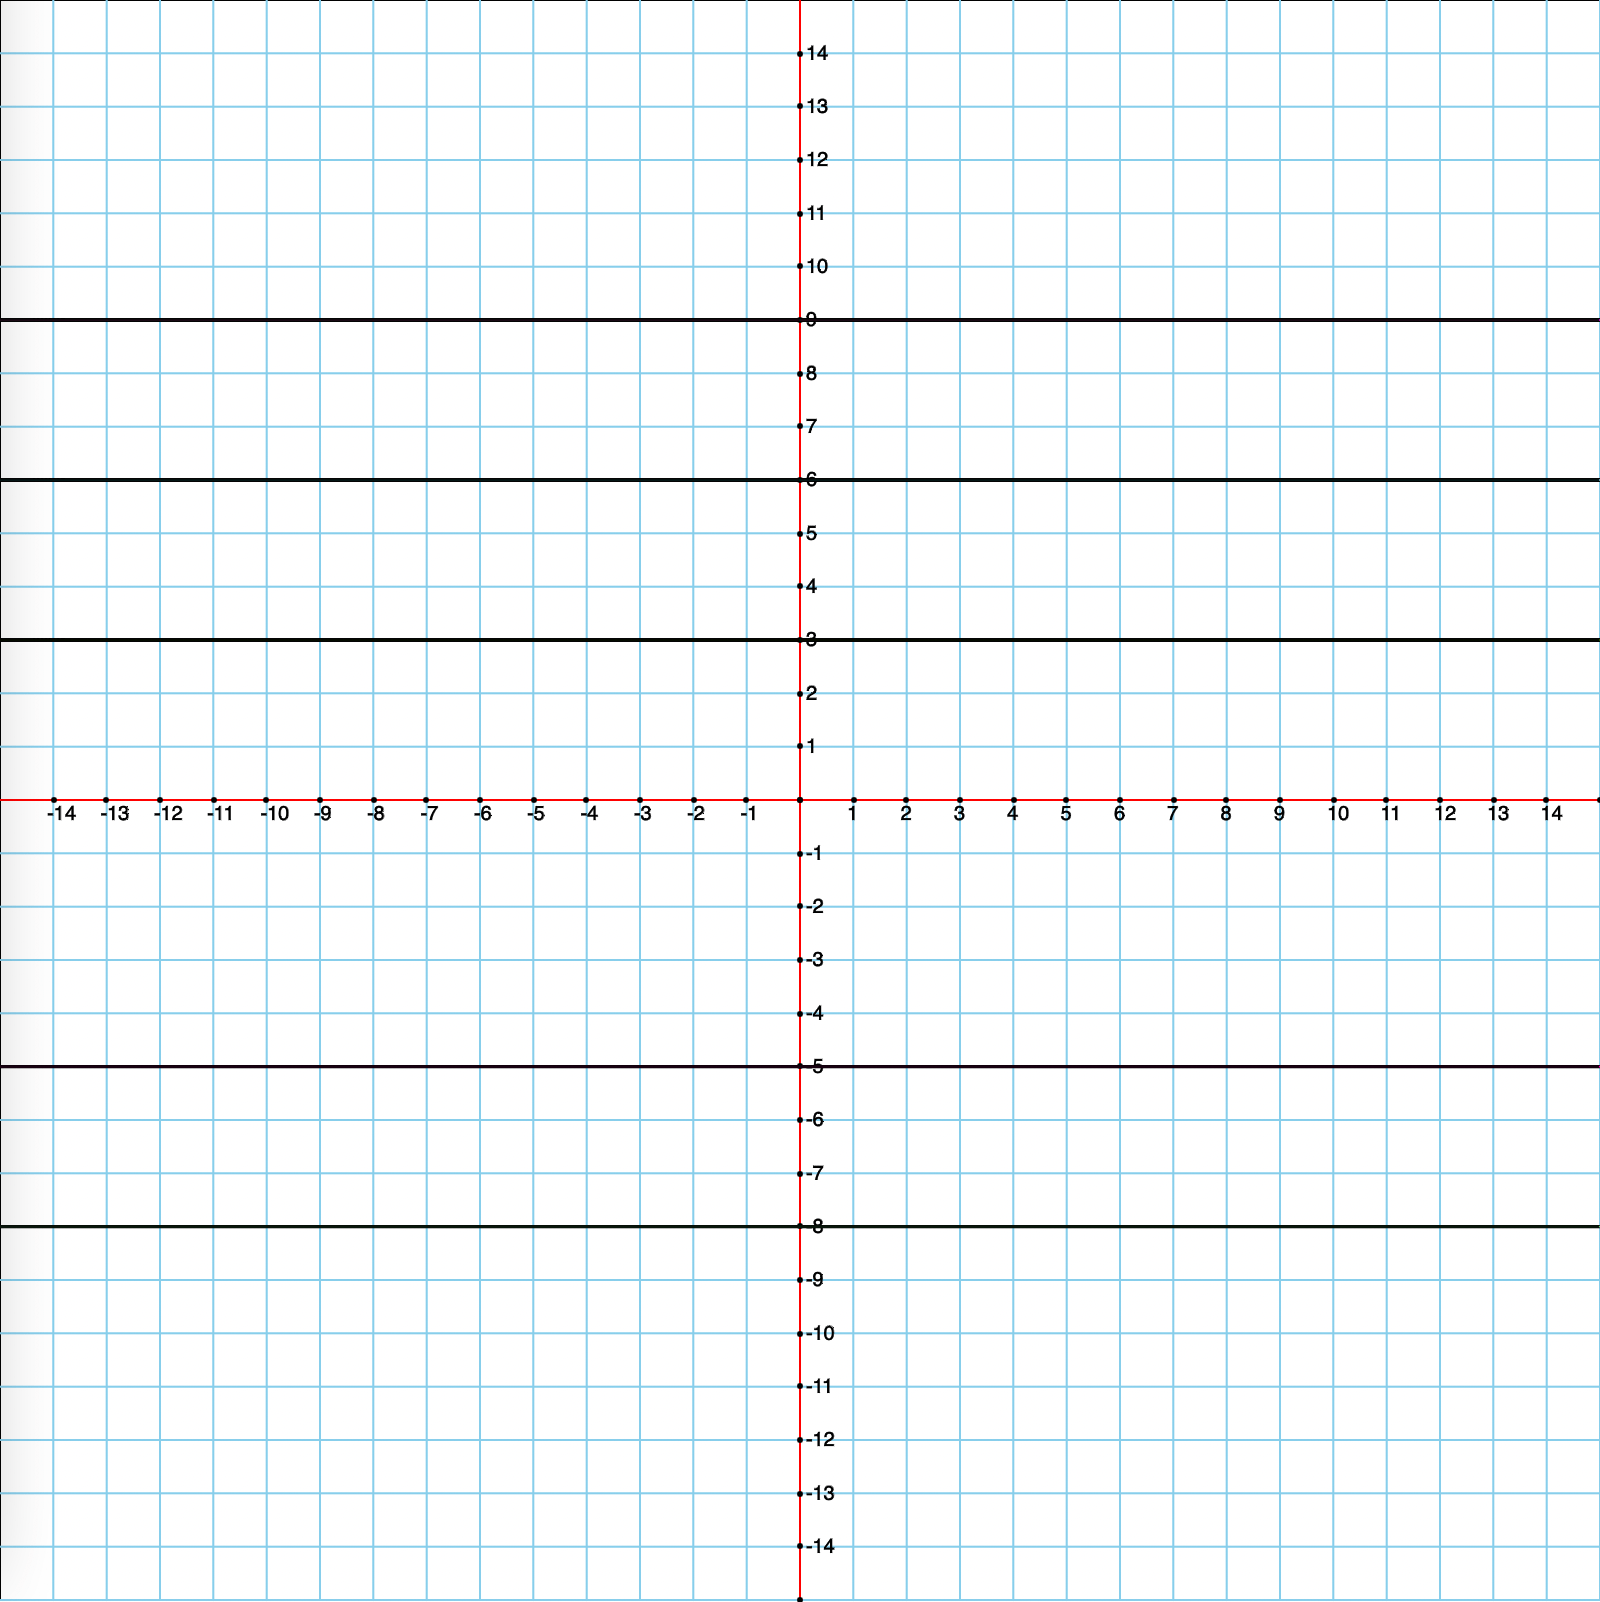
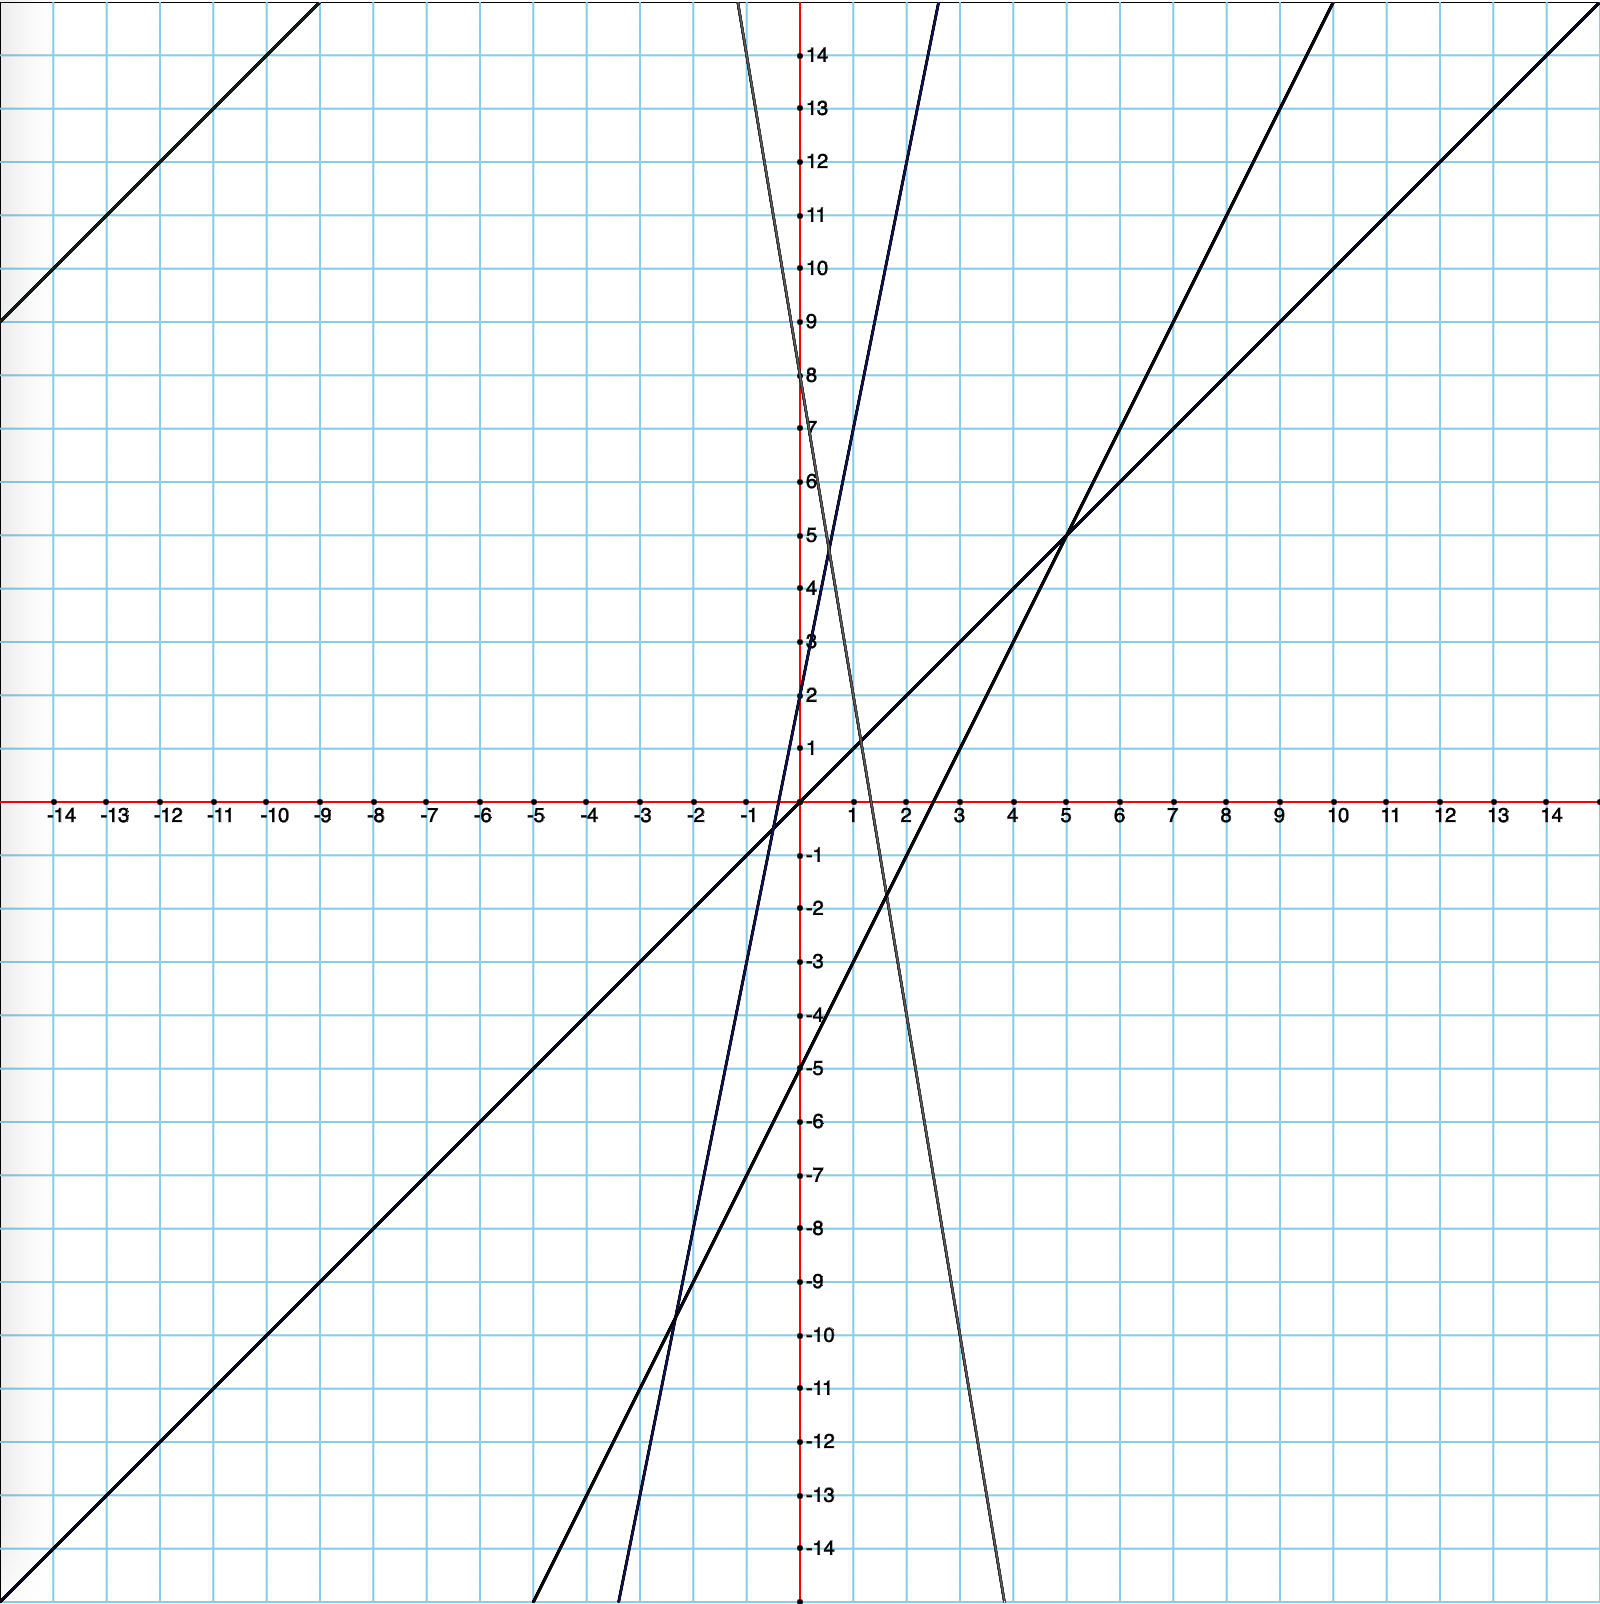
start creating the homework due June 25 file

diff --git a/2021-06-25/hw2021-06-25.html b/2021-06-25/hw2021-06-25.html
@@ -1,0 +1,346 @@
+<!DOCTYPE html>
+<html lang="en">
+<head>
+    <link
+        rel="stylesheet"
+        href="https://cdnjs.cloudflare.com/ajax/libs/prism/1.5.0/themes/prism.min.css"
+   />
+    <meta charset="UTF-8">
+    <meta http-equiv="X-UA-Compatible" content="IE=edge">
+    <meta name="viewport" content="width=device-width, initial-scale=1.0">
+    <title>hw2021-06-25</title>
+    <style>
+        @import url('https://fonts.googleapis.com/css2?family=Raleway&display=swap');
+        @import url('https://fonts.googleapis.com/css2?family=Roboto+Mono:wght@300&display=swap');
+        #title
+        {
+            font-family: 'Raleway', sans-serif;;
+            text-align: center;
+            color:rgb(0, 255, 13);
+        }
+        li.list
+        {
+            font-family: 'Raleway', sans-serif;;
+        }
+        p.assignment
+        {
+            font-family: 'Raleway', sans-serif;;
+        }
+        p.answer
+        {
+            font-family: 'Raleway', sans-serif;
+            text-decoration-line: underline;
+            color:rgb(8, 211, 35);
+        }
+        span.code
+        {
+            font-family: 'Roboto Mono', monospace;
+            font-size: 8;
+            background: rgb(196, 195, 195);
+            border-radius: 2pt;
+            color:rgb(24, 128, 24);
+        }
+    </style>
+    <body>
+        <script src="https://cdnjs.cloudflare.com/ajax/libs/prism/1.5.0/prism.min.js"></script>
+        <ol>
+            <h1 id="title">Homework due June 25</h1>
+            <li class="list">
+                <p class="assignment">
+                    Guess the function — see the attached <span class="code">graph</span>.  Hint:  try your guesses on your own graph so that they match up.
+                    <ol type="a">
+                        <li class="list">
+                            purple function
+                        </li>
+                        <li class="list">
+                            brown function
+                        </li>
+                        <li class="list">
+                            green function
+                        </li>
+                    </ol>
+                </p>
+                <p class="answer">answer</p>
+            </li>
+            <li class="list">
+                <p class="assignment">
+                    Individual work:
+                    <ol type="a">
+                        <li class="list">
+                            Cris:  
+                            show a screenshot of that weird function you showed in class on Sunday June 20.  
+                            The one that had <span class="code">Math.random</span> in it, and the graph was mostly above the x-axis but had just a couple points below it.  
+                            It had a few bumps in the third quadrant, then in the first quadrant it looked like it went up to positive infinity at three different places.  
+                            Please include the definition of the function in your screenshot.
+                        </li>
+                        <li class="list">
+                            Alex: 
+                            Give a code snippet from your Unity game and write an explanation of it.
+                        </li>
+                        <li class="list">
+                            Kenneth:  
+                            Prove the two difficult cases from the <span class="code">compare</span> function; 
+                            why does Cris beat Alex with probability = 2/3 and why does Alex beat Kenneth with probability = 2/3?
+                            <ol type="i">
+                                <li class="list">
+                                    <span class="code">4 4 4 4 0 0</span> — Kenneth
+                                </li>
+                                <li class="list">
+                                    <span class="code">3 3 3 3 3 3</span> — Kai
+                                </li>
+                                <li class="list">
+                                    <span class="code">2 2 2 2 6 6</span> — Cris
+                                </li>
+                                <li class="list">
+                                    <span class="code">1 1 1 5 5 5</span> — Alex
+                                </li>
+                            </ol>
+                        </li>
+                    </ol>
+                </p>
+                <p class="answer">answer</p>
+            </li>
+            <li class="list">
+                <p class="assignment">
+                    Goldbach’s conjecture is one of the oldest and best-known unsolved problems in number theory and all of mathematics. 
+                    It states that every even whole number greater than 2 is the sum of two prime numbers.
+                    <ol class="a">
+                        <li class="list">
+                            Prove it up to 10.  Easy:
+                            <ol class="i">
+                                <li class="list">
+                                    <span class="code">4 = 2 + 2</span>
+                                </li>
+                                <li class="list">
+                                    <span class="code">6 = 3 + 3</span>
+                                </li>
+                                <li class="list">
+                                    <span class="code">8 = 3 + 5</span>
+                                </li>
+                                <li class="list">
+                                    <span class="code">10 = 3 + 7</span>
+                                </li>
+                            </ol>
+                        </li>
+                        <li class="list">
+                            continue the above proof by hand up through the number 30.
+                        </li>
+                        <li class="list">
+                            Let’s suppose you wanted to prove this for even numbers up through 1000 … or up through <span class="code">n</span>?  
+                            Think about an algorithm that could accomplish this (hint, your algorithm could in turn rely on <span class="code">sieve</span>).  
+                            Write down a sentence or two describing how that algorithm would work.
+                        </li>
+                    </ol>
+                </p>
+                <p class="answer">answer</p>
+            </li>
+            <li class="list">
+                <p class="assignment">
+                    Let’s write a function called <span class="code">randomLife</span>.  
+                    Start with your <span class="code">graph</span> function in order to draw some graph paper, but omit the x-axis and the y-axis.  
+                    Also, we won’t be putting functions on there.  
+                    Instead, we will be looking at the squares of your graph, and we will refer to them as “cells”.  
+                    We are calling this function <span class="code">randomLife</span> because you will fill the cells with color black when they are alive; and when you draw your grid, 
+                    look at each cell, calculate <span class="code">Math.random()</span>, and if it’s less than 1/3, mark that cell as alive.  That’s it.  
+                    So every time you reload the page it should have a different random setup with approximately 1/3 of the cells alive.
+                </p>
+                <p class="answer">answer</p>
+            </li>
+            <li class="list">
+                <p class="assignment">
+                    Write <span class="code">solve(mathString)</span>.  
+                    This function will read <span class="code">mathString</span> and solve it.  
+                    For now, you can make a very strong simplifying assumption:  
+                    <span class="code">mathString</span> will always be of the form <span class="code">"x + y"</span> where <span class="code">x</span> and <span class="code">y</span> are positive integers.  
+                    Examples: <span class="code"> "17 + 23"</span>, <span class="code">"29999 + 314159"</span>.  
+                    Also, 
+                    let’s assume that <span class="code">x</span> and <span class="code">y</span> are both less than <span class="code">Math.MAX_SAFE_INTEGER / 2</span> so that we don’t have to worry about <span class="code">BigInt</span>.  
+                    In short, <span class="code">mathString</span> will always be:  number, space, plus, space, number.  
+                    Then perform that computation and return the result.
+                </p>
+                <p class="answer">answer</p>
+            </li>
+            <li class="list">
+                <p class="assignment">
+                    Easy <span class="code">console.log</span> work.  Write a sentence describing observations.
+                    <ol class="a">
+                        <li class="list">
+                            <span class="code">
+                                Math.E
+                            </span>
+                        </li>
+                        <li class="list">
+                            <span class="code">
+                                Math.E * Math.E
+                            </span>
+                        </li>
+                        <li class="list">
+                            <span class="code">
+                                Math.exp(2)
+                            </span>
+                        </li>
+                        <li class="list">
+                            <span class="code">
+                                Math.E * Math.E == Math.exp(2)
+                            </span>
+                        </li>
+                        <li class="list">
+                            <span class="code">
+                                Math.log2(10)
+                            </span>
+                        </li>
+                        <li class="list">
+                            <span class="code">
+                                Math.log(10)
+                            </span>
+                        </li>
+                        <li class="list">
+                            <span class="code">
+                                Math.log10(10)
+                            </span>
+                        </li>
+                        <li class="list">
+                            <span class="code">
+                                googol = 10**100
+                            </span>
+                        </li>
+                        <li class="list">
+                            <span class="code">
+                                Math.log2(googol)
+                            </span>
+                        </li>
+                        <li class="list">
+                            <span class="code">
+                                Math.log(googol)
+                            </span>
+                        </li>
+                        <li class="list">
+                            <span class="code">
+                                Math.log10(googol)
+                            </span>
+                        </li>
+                        <li class="list">
+                            <span class="code">
+                                Math.log13(googol)
+                            </span>
+                        </li>
+                    </ol>
+                </p>
+                <p class="answer">answer</p>
+            </li>
+            <li class="list">
+                <p class="assignment">
+                    More console work.  
+                    Explain what’s going on here.  
+                    What’s the <span class="code">b</span> and what’s the <span class="code">^</span> 
+                    <ol type="a">
+                        <li class="list">
+                            <span class="code">
+                                0b0
+                            </span>
+                        </li>
+                        <li class="list">
+                            <span class="code">
+                                0b1
+                            </span>
+                        </li>
+                        <li class="list">
+                            <span class="code">
+                                0b10
+                            </span>
+                        </li>
+                        <li class="list">
+                            <span class="code">
+                                0b11
+                            </span>
+                        </li>
+                        <li class="list">
+                            <span class="code">
+                                0b100
+                            </span>
+                        </li>
+                        <li class="list">
+                            <span class="code">
+                                0b101
+                            </span>
+                        </li>
+                        <li class="list">
+                            <span class="code">
+                                0b110
+                            </span>
+                        </li>
+                        <li class="list">
+                            <span class="code">
+                                0b111
+                            </span>
+                        </li>
+                        <li class="list">
+                            <span class="code">
+                                0b111 ^ 0b111
+                            </span>
+                        </li>
+                        <li class="list">
+                            <span class="code">
+                                0b111 ^ 0b110
+                            </span>
+                        </li>
+                        <li class="list">
+                            <span class="code">
+                                0b111 ^ 0b101
+                            </span>
+                        </li>
+                        <li class="list">
+                            <span class="code">
+                                0b111 ^ 0b100
+                            </span>
+                        </li>
+                        <li class="list">
+                            <span class="code">
+                                0b111 ^ 0b011
+                            </span>
+                        </li>
+                        <li class="list">
+                            <span class="code">
+                                0b111 ^ 0b010
+                            </span>
+                        </li>
+                        <li class="list">
+                            <span class="code">
+                                0b111 ^ 0b001
+                            </span>
+                        </li>
+                        <li class="list">
+                            <span class="code">
+                                0b111 ^ 0b000
+                            </span>
+                        </li>
+                    </ol>
+                </p>
+                <p class="answer">answer</p>
+            </li>
+            <li class="list">
+                <p class="assignment">
+                    What is destructuring in JavaScript?  
+                    Read sections 10.1, 10.2, 10.3 of this: 
+                    <A href="https://exploringjs.com/es6/ch_destructuring.html">ch_destructuring.html</A>.  
+                    Write a paragraph describing destructuring in your own words. 
+                    Give 3 or more examples preferably from your own code, or, 
+                    suggest how we could use destructuring to simplify the rock-paper-scissors code we spoke about on 
+                    Friday June 18 (see the thread here, it’s in a snippet). 
+                </p>
+                <p class="answer">answer</p>
+            </li>
+            <li class="list">
+                <p class="assignment">
+                    Write five crazy cool math functions and put them all on the same <span class="code">graph</span>.
+                </p>
+                <p class="answer">answer</p>
+            </li>
+            <li class="list">
+                <p class="assignment">
+                    Prepare five easy/medium math functions to <span class="code">graph</span> for our Google Meet version of guess-the-function.
+                </p>
+                <p class="answer">answer</p>
+            </li>
+        </ol>
+    </body>
